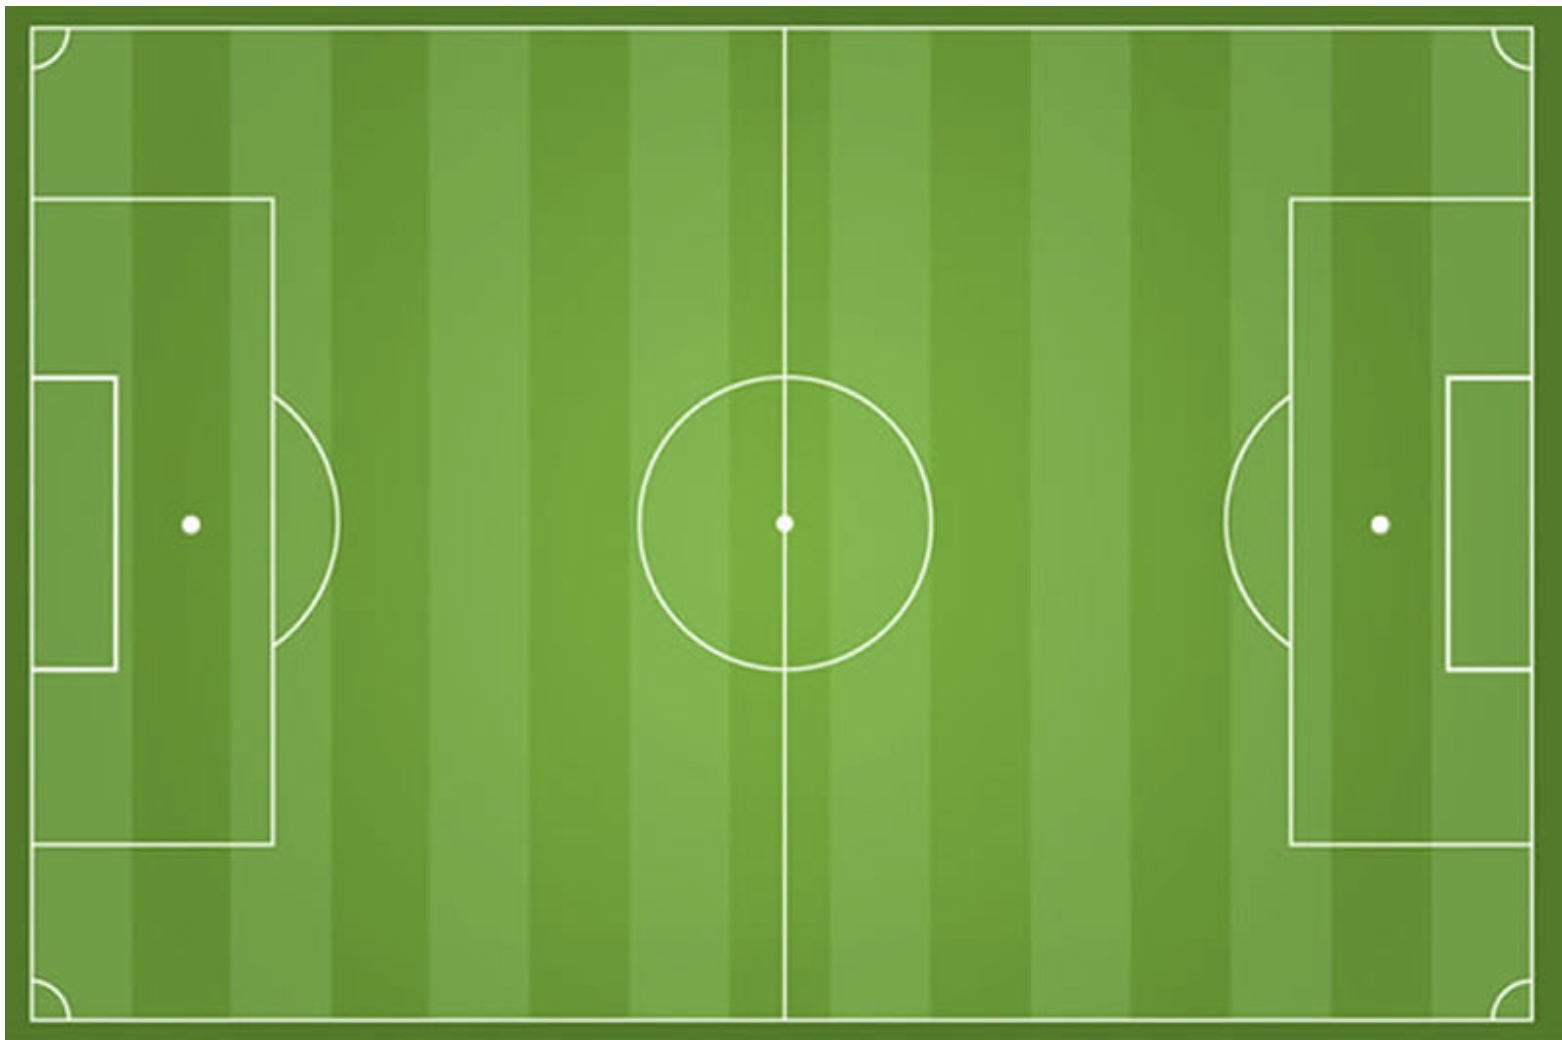
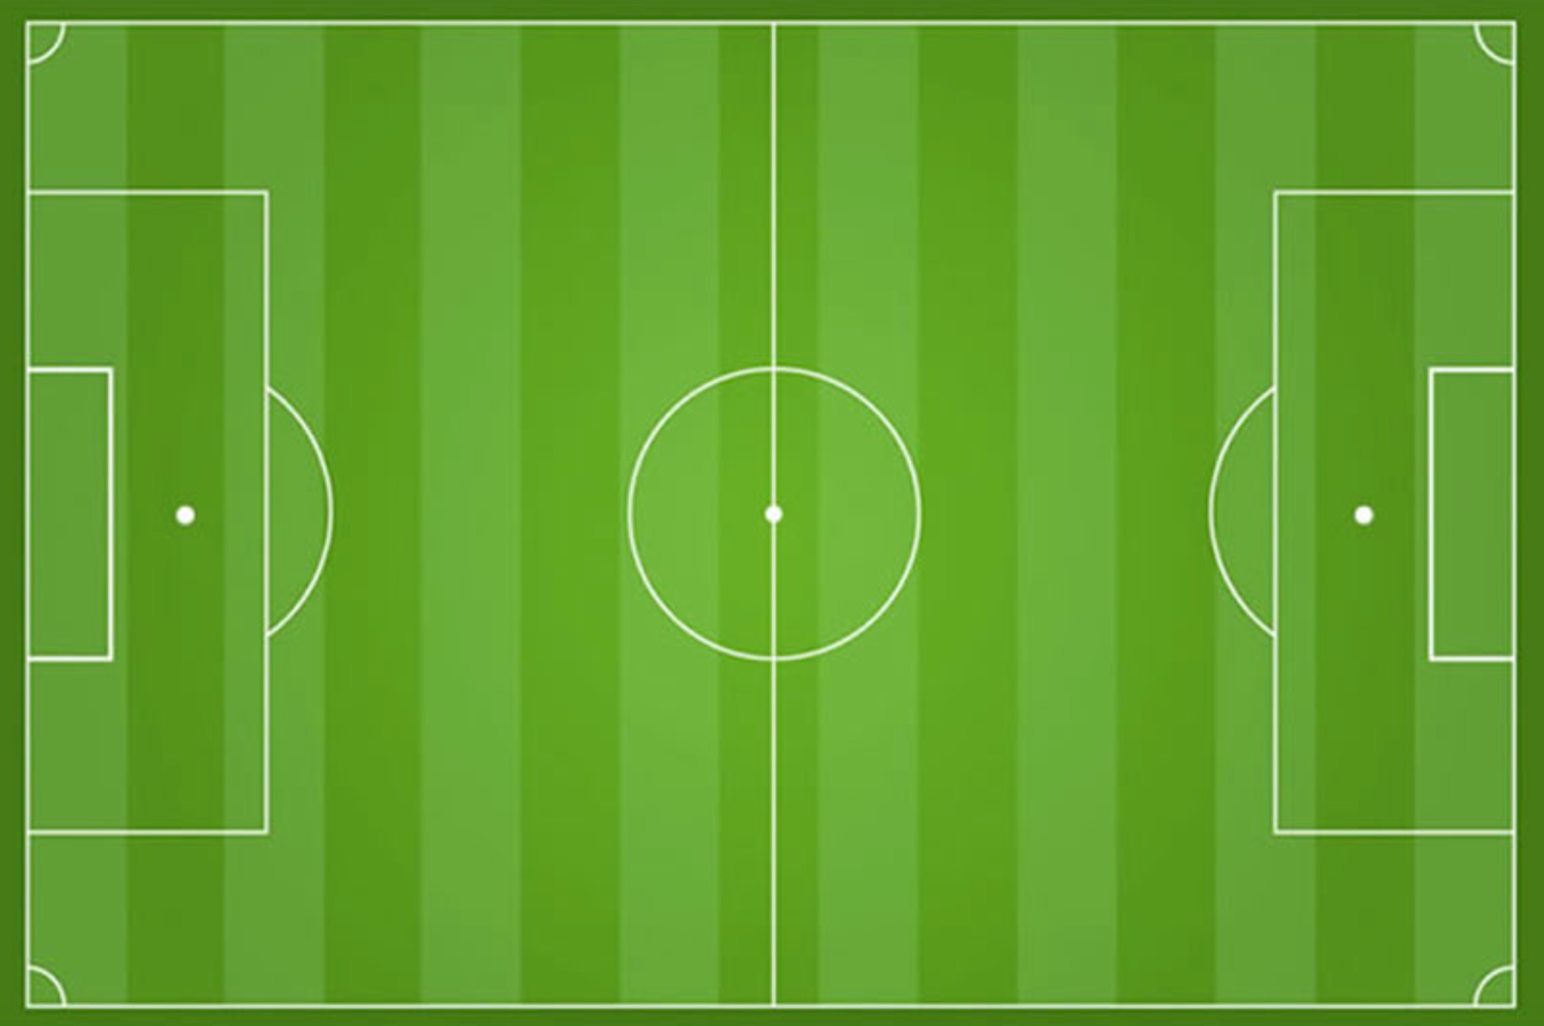
removed white border on background

diff --git a/public/css/background.css b/public/css/background.css
@@ -1,24 +1,24 @@
 #pageContent {
-    position: relative;
-    overflow: hidden;
-    background-repeat: no-repeat; 
-    background-position: center; 
-    background-size: cover;
-    width: 100vw;
-    height: 80vh;
-    z-index: -1;
-    filter: contrast(70%);
-    background-attachment: fixed;
+  position: relative;
+  overflow: hidden;
+  background-repeat: no-repeat;
+  background-position: center;
+  background-size: cover;
+  width: 100vw;
+  height: 80vh;
+  z-index: -1;
+  filter: contrast(70%);
+  background-attachment: fixed;
 }
 
 @media screen and (max-width: 900px) {
-    #pageContent {
-        background-image: url("/static/images/background_vertical.png");
-    }
+  #pageContent {
+    background-image: url("/static/images/background_vertical.png");
+  }
 }
 
 @media screen and (min-width: 901px) {
-    #pageContent {
-        background-image: url("/static/images/background_horizontal.png");
-    }
+  #pageContent {
+    background-image: url("/static/images/background_horizontal.png");
+  }
 }

diff --git a/public/css/style.css b/public/css/style.css
@@ -13,6 +13,7 @@ body {
 }
 
 header {
+  z-index: 1;
   background-color: #303030;
   padding: 2vh;
   position: sticky;
